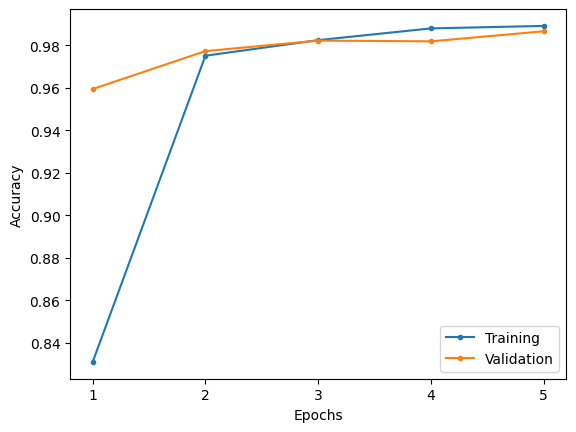
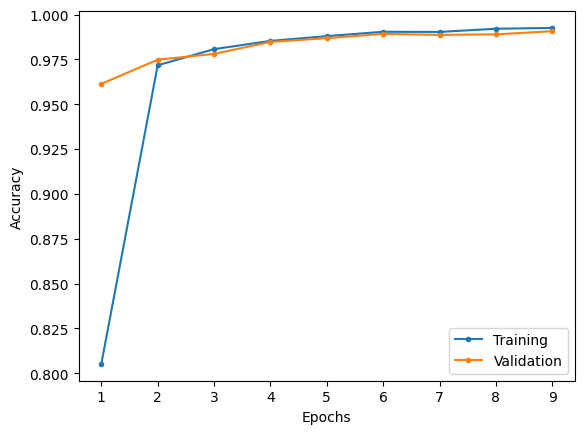
Adds retrained MNIST results.

diff --git a/CNN/AlexNet/README.md b/CNN/AlexNet/README.md
@@ -24,6 +24,7 @@ This is an implementation of AlexNet model described in the research paper.
 |        ReLU         | [-1, 256, 13, 13] |     0      |
 |   2D max pooling    |  [-1, 256, 6, 6]  |     0      |
 |       Flatten       |    [-1, 9216]     |     0      |
+|       Dropout       |    [-1, 9216]     |     0      |
 |       Linear        |    [-1, 4096]     | 37,752,832 |
 |        ReLU         |    [-1, 4096]     |     0      |
 |       Dropout       |    [-1, 4096]     |     0      |
@@ -40,7 +41,7 @@ This is an implementation of AlexNet model described in the research paper.
 
 ### Results
 
-Training over 5 epochs at a learning rate of 1e-4.
+Training over 9 epochs at a learning rate of 1e-4.
 
 |                     Loss                      |                       Accuracy                        |
 | :-------------------------------------------: | :---------------------------------------------------: |
@@ -48,23 +49,23 @@ Training over 5 epochs at a learning rate of 1e-4.
 
 |              | Training | Validation | Testing |
 | :----------: | :------: | :--------: | :-----: |
-|     Loss     |   0.03   |    0.05    |  0.04   |
-| Accuracy (%) |  98.92   |   98.67    |  98.87  |
+|     Loss     |  0.0223  |   0.0331   | 0.0277  |
+| Accuracy (%) |  99.25   |   99.07    |  99.1   |
 
 | Class | Training Precision | Validation Precision | Testing Precision | Training Recall | Validation Recall | Testing Recall | Training F1 Score | Validation F1 Score | Testing F1 Score |
 | :---: | :----------------: | :------------------: | :---------------: | :-------------: | :---------------: | :------------: | :---------------: | :-----------------: | :--------------: |
-|   0   |       0.9940       |        0.9892        |      0.9809       |     0.9938      |      0.9931       |     0.9949     |      0.9939       |       0.9912        |      0.9878      |
-|   1   |       0.9926       |        0.9951        |      0.9921       |     0.9947      |      0.9912       |     0.9947     |      0.9936       |       0.9931        |      0.9934      |
-|   2   |       0.9905       |        0.9896        |      0.9912       |     0.9907      |      0.9738       |     0.9787     |      0.9906       |       0.9817        |      0.9849      |
-|   3   |       0.9911       |        0.9886        |      0.9901       |     0.9888      |      0.9854       |     0.9921     |      0.9899       |       0.9870        |      0.9911      |
-|   4   |       0.9909       |        0.9805        |      0.9859       |     0.9899      |      0.9927       |     0.9949     |      0.9904       |       0.9866        |      0.9904      |
-|   5   |       0.9863       |        0.9940        |      0.9966       |     0.9858      |      0.9840       |     0.9843     |      0.9861       |       0.9890        |      0.9904      |
-|   6   |       0.9917       |        0.9840        |      0.9926       |     0.9926      |      0.9965       |     0.9854     |      0.9921       |       0.9902        |      0.9890      |
-|   7   |       0.9860       |        0.9845        |      0.9826       |     0.9889      |      0.9908       |     0.9903     |      0.9874       |       0.9876        |      0.9864      |
-|   8   |       0.9841       |        0.9829        |      0.9857       |     0.9827      |      0.9823       |     0.9897     |      0.9834       |       0.9826        |      0.9877      |
-|   9   |       0.9840       |        0.9779        |      0.9900       |     0.9828      |      0.9763       |     0.9812     |      0.9834       |       0.9771        |      0.9856      |
+|   0   |       0.9964       |        0.9966        |      0.9909       |     0.9969      |      0.9972       |     0.9959     |      0.9966       |       0.9969        |      0.9934      |
+|   1   |       0.9960       |        0.9922        |      0.9965       |     0.9949      |      0.9946       |     0.9965     |      0.9954       |       0.9934        |      0.9965      |
+|   2   |       0.9928       |        0.9906        |      0.9903       |     0.9930      |      0.9917       |     0.9932     |      0.9929       |       0.9912        |      0.9918      |
+|   3   |       0.9950       |        0.9942        |      0.9853       |     0.9936      |      0.9901       |     0.9980     |      0.9943       |       0.9922        |      0.9916      |
+|   4   |       0.9929       |        0.9896        |      0.9878       |     0.9905      |      0.9902       |     0.9929     |      0.9917       |       0.9899        |      0.9904      |
+|   5   |       0.9921       |        0.9925        |      0.9955       |     0.9924      |      0.9827       |     0.9821     |      0.9922       |       0.9876        |      0.9887      |
+|   6   |       0.9932       |        0.9917        |      0.9979       |     0.9939      |      0.9923       |     0.9791     |      0.9935       |       0.9920        |      0.9884      |
+|   7   |       0.9892       |        0.9841        |      0.9893       |     0.9915      |      0.9928       |     0.9932     |      0.9904       |       0.9884        |      0.9913      |
+|   8   |       0.9900       |        0.9931        |      0.9938       |     0.9895      |      0.9853       |     0.9836     |      0.9897       |       0.9892        |      0.9886      |
+|   9   |       0.9877       |        0.9822        |      0.9833       |     0.9891      |      0.9890       |     0.9931     |      0.9884       |       0.9856        |      0.9882      |
 
-## CIFAR 100
+## CIFAR 10
 
 ### Model Summary
 
